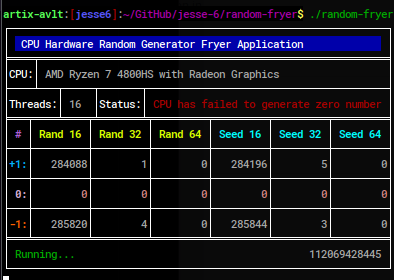
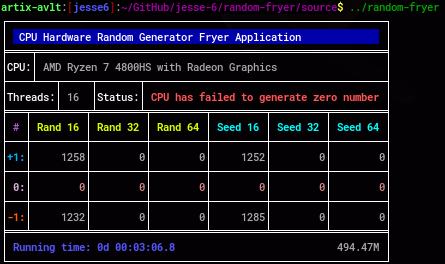
Add elapsed time and enhance iteration counter

diff --git a/README.md b/README.md
@@ -6,7 +6,7 @@
 
 #### Short history on AMD processor's RNG unit not being able to generate a 0
 
-By accident, while testing a way to do graph in assembly to render and present data, and using the processor's builtin mechanism to generate random numbers (using 'rdrand' and 'rdseed' instructions) for introducing that data to be rendered, I've figured out that my AMD Ryzen 7  processor was completely and undeniably unable to generate the number zero in its unit, no matter what technique I was using. So, I ended up by using an alternate method to extract a zero from its random number generator, by "ANDing" (actually generating a 64-bit number and using only 16-bit number of that result) a bigger number to strip out a smaller one, in which result, it finally can be zero. And, later after, I've tested the same (non-AND) code on an Intel processor, and then zeroes were being generated normally with Intel. So, I did a quick program to count 0's generated using 'rdrand' and 'rdseed', and figured out the same.
+By accident, while testing a way to do graph in assembly to render and present data, and using the processor's builtin mechanism to generate random numbers (using 'rdrand' and 'rdseed' instructions) for introducing that data to be rendered, I've figured out that my AMD Ryzen 7  processor was completely and undeniably unable to generate the number zero in its unit, no matter what technique I was using. So, I ended up by using an alternate method to extract a zero from its random number generator, by "ANDing" (actually generating a 64-bit number and using only 16-bit number of that result) a bigger number to strip out a smaller one, in which result, it finally can be zero. And, later after, I've tested the same (non-AND) code on an Intel processor, and then zeroes were being generated with Intel. So, I did a quick program to count 0's generated using 'rdrand' and 'rdseed', and figured out the same.
 
 This is why I've created this application, which is a second and more polished version of my first RNG test for zero program.
 
@@ -14,13 +14,13 @@ Its usage is quite simple, just run it from the terminal, and wait for the resul
 
 ## How it works?
 
-It presents itself to the user, and shortly then, starts running 2 threads to extract, as much as possible, numbers from hardware random number generator and counting 0, 1 and -1 occurences, in 16, 32 and 64 bit sizes. And the main thread periodically (whenever it receives a flag that any counter has ben updated, or a periodic update flag as well) renders the result to screen, including the number of succesfull iterations with the RNG unit. After detecting a zero, or after some iterations that not result in any zero being generated, a status message is shown at the screen, with either a success or failure result accordingly.
+It presents itself to the user, and shortly then, starts running 2 threads to extract, as much as possible, numbers from hardware random number generator and counting 0, 1 and -1 occurences, in 16, 32 and 64 bit sizes. And the main thread periodically renders the result to screen, including the number of succesful iterations with the RNG unit. After detecting a zero, or after some iterations that not result in any zero being generated, a status message is shown at the screen, with either a success or failure result accordingly.
 
 Those 2 threads I've mentioned run at full speed to extract the maximum data as possible. They use a technique to lower the power consumption from CPUs they are using, but still they're 100% CPU usage threads anyway. Keep in mind that this is normal for this application so far.
 
-## Instalation
+## Installation
 
-Just copy the executable to either your O.S. default binary path (usually '/usr/bin') as root (super user), or use it from any folder by typing './random-fryer' at command line from that folder.
+Just copy the executable to either your O.S. default binary path (usually '/usr/bin') as root (super user), or use it from any folder by typing './random-fryer' at command line from that folder. It doesn't need elevated privileges to run.
 
 ## Usage
 
